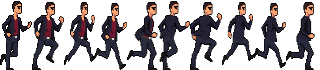
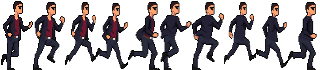
Исправлены артефакты анимации и настройки скорости

Changed region(s): [[0.0, 0.0, 1.0, 1.0], [0.125, 0.9714, 0.1562, 1.0]]

diff --git a/settings.py b/settings.py
@@ -32,9 +32,9 @@ SKY_BLUE = (135, 206, 235)
 
 # Физика
 PLAYER_SPEED = 5          # обычная ходьба
-PLAYER_RUN_SPEED = 10     # бег (зажатый Shift)
+PLAYER_RUN_SPEED = 9     # бег (зажатый Shift)
 PLAYER_JUMP_POWER = -12
-GRAVITY = 0.5
+GRAVITY = 1.2
 
 # Прозрачность передних слоёв
 FOREGROUND_ALPHA_FADED = 0
@@ -49,8 +49,8 @@ PLAYER_FRAME_HEIGHT = 70
 
 PLAYER_ANIMATIONS_CONFIG = {
     'idle':   {'filename': 'Idle',   'frames': 6, 'speed': 150},
-    'walk':   {'filename': 'Walk',   'frames': 10, 'speed': 100},
-    'run':    {'filename': 'Run',    'frames': 10, 'speed': 80},
+    'walk':   {'filename': 'Walk',   'frames': 10, 'speed': 120},
+    'run':    {'filename': 'Run',    'frames': 10, 'speed': 100},
     'attack': {'filename': 'Attack', 'frames': 4, 'speed': 100},
-    'jump':   {'filename': 'Jump',   'frames': 5, 'speed': 100}
+    'jump':   {'filename': 'Jump',   'frames': 5, 'speed': 250}
 }